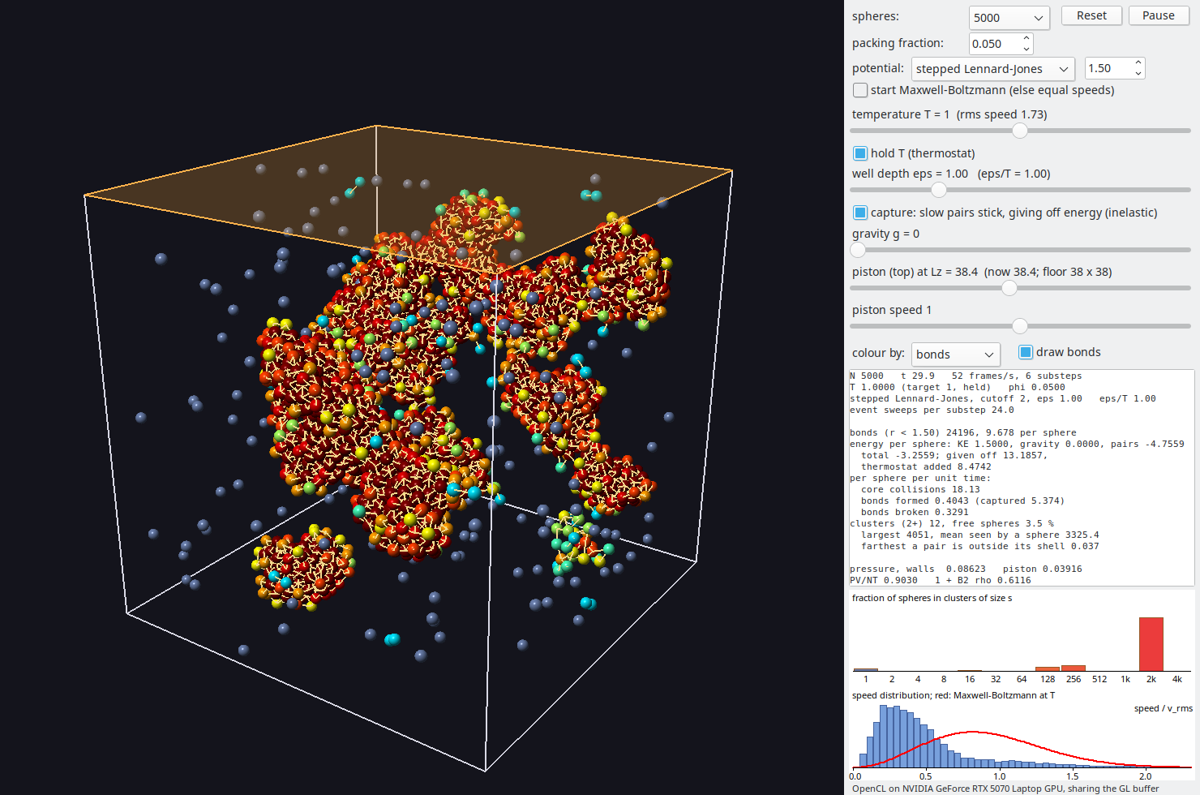
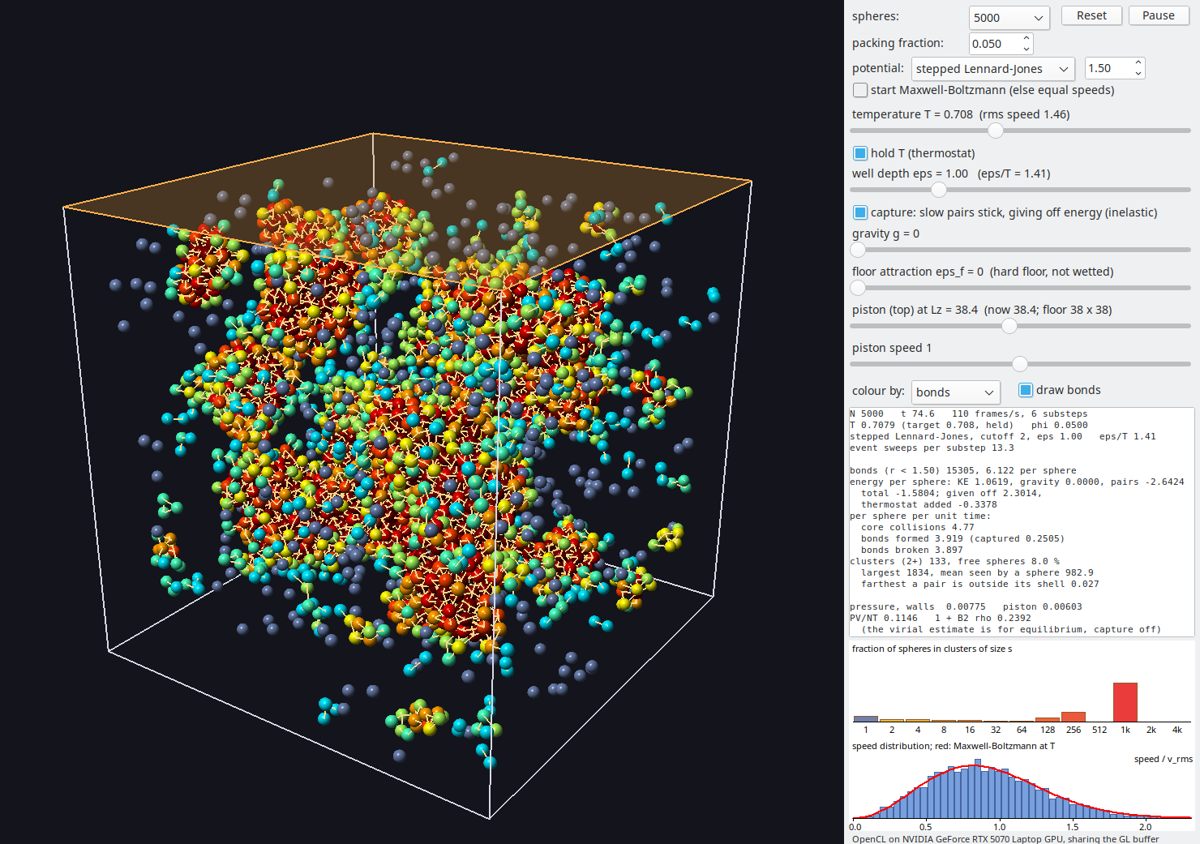
Sticky: capture only for gas pairs, attractive floor so the liquid wets it
Capture applied inside clusters too, where bound pairs rattling across
the narrow shells were captured ~8 times per sphere per unit time; the
uniformly rescaling thermostat put the energy back into the vapour, so
the liquid froze (T 0.05 against 39 in the vapour). Capture now needs
one sphere of the pair to be free: condensation from the gas. The
liquid stays at the set temperature and flows.

The floor gains a one-body square well (eps_f, slider, --floor,
default 1.5) for centres within a diameter of it, handled in the move
kernel and energy-conserving. From about 1.5 the liquid wets the floor
and spreads into a film instead of lying as a puddle.

Default T is now 0.71 (T 1 is near critical for the 2 sigma cutoff).
The window is taller for the new slider; README and screenshots
updated, stickycheck gains a floor energy case.

diff --git a/Sticky/README.md b/Sticky/README.md
@@ -6,13 +6,17 @@ again. The simulation runs on the GPU in
 OpenCL and is drawn in OpenGL from the same buffer. It is a sibling of
 HardSpheres, the folder above, and shares its `clgl.pas`.
 
-![A Lennard-Jones liquid pool on the floor under its vapour](../docs/sticky-pool.png)
+![A Lennard-Jones liquid wetting the floor under its vapour](../docs/sticky-pool.png)
 
-*5,000 spheres, stepped Lennard-Jones, T = 0.8, gravity 0.05, capture off, after 125 time units: a liquid pool on the floor under a thin vapour. Colour shows bonds per sphere (grey-blue free, green to red more bonds); bonds are drawn as lines. Speeds follow Maxwell–Boltzmann, and the clusters histogram shows one cluster holding almost every sphere.*
+*The default settings (5,000 spheres, stepped Lennard-Jones, T = 0.71, gravity 0.05, floor attraction 1.5, capture on) after 150 time units: the liquid has wet the floor (tinted blue) and covers it, about five layers deep, under a thin vapour. Colour shows bonds per sphere (grey-blue free, green to red more bonds); bonds are drawn as lines. Speeds follow Maxwell–Boltzmann, and the clusters histogram shows one cluster holding almost every sphere.*
 
-![Droplets forming in zero gravity with capture on](../docs/sticky-droplets.png)
+![A thinner liquid film at packing fraction 0.02](../docs/sticky-film.png)
 
-*The same spheres at T = 1 with no gravity and capture on, after 30 time units: slow pairs stick and give off energy, so droplets nucleate and grow. With capture on the speeds are not Maxwellian: most spheres are slow, with a long fast tail.*
+*The same at packing fraction 0.02: the box is larger and the film about two layers thick.*
+
+![Droplets forming in zero gravity](../docs/sticky-droplets.png)
+
+*With no gravity and a hard floor, after 75 time units: droplets nucleate, grow and merge, with Maxwell–Boltzmann speeds.*
 
 ## Build and run
 
@@ -27,7 +31,7 @@ fpc -O2 -Fu.. -FUlib stickycheck.lpr
 
 GUI options:
 
-- **Setup:** `--n`, `--phi`, `--lambda=<w>` (square well of width w, else stepped LJ), `--eps`, `--g`, `--temp`, `--maxwell`.
+- **Setup:** `--n`, `--phi`, `--lambda=<w>` (square well of width w, else stepped LJ), `--eps`, `--g`, `--floor=<eps_f>` (the floor's attraction, default 1.5; 0 for a hard floor), `--temp`, `--maxwell`.
 - **Behaviour:** `--nocapture`, `--nohold`.
 - **Snapshot:** `--snapshot=<file.png>` with `--frames=<n>` saves the view and the window, prints the readouts and exits.
 
@@ -62,7 +66,7 @@ potential energy.
 | event | what happens |
 |---|---|
 | core (r = 1) | elastic bounce |
-| a step inward (including reaching the cutoff) | **Capture on**, the step downhill and u_n²/4 < ε: the pair steps in without speeding up and the step's energy is given off (inelastic). Otherwise, if u_n²/4 > ΔU, it steps in and u_n²/4 changes by −ΔU; if not, it bounces back |
+| a step inward (including reaching the cutoff) | **Capture on**, one of the pair free (no bonds), the step downhill and u_n²/4 < ε: the pair steps in without speeding up and the step's energy is given off (inelastic). Otherwise, if u_n²/4 > ΔU, it steps in and u_n²/4 changes by −ΔU; if not, it bounces back |
 | a step outward | if u_n²/4 > ΔU it steps out (beyond the cutoff, the pair leaves the lists); otherwise it bounces back |
 
 **Capture on** is the "slow pairs stick" rule. A pair that falls in slowly
@@ -70,6 +74,22 @@ gives off each step's energy on the way down and ends up deep in the
 well. It can only climb out again with energy from collisions. Every
 capture cools the gas, and "hold T" (the thermostat) puts the energy
 back.
+
+Capture stands in for the third body that would carry a gas pair's
+energy away, so it applies only when one of the pair is free (has no
+bonds): condensation from the gas. Inside a cluster the neighbours carry
+energy away by ordinary collisions. At first capture applied everywhere,
+and the liquid, its bound pairs rattling across the narrow shells,
+captured about 8 times per sphere per unit time. The thermostat rescales
+every velocity alike, so it put that energy back mostly into the few
+vapour spheres. At T = 0.8 the liquid sat at T = 0.05 and the vapour at
+39: a frozen lump on the floor, not a liquid. With capture limited to
+gas pairs the liquid stays at the set temperature, moves (its
+mean-square displacement over t = 10 is 4.4, as with capture off) and
+settles into a puddle. A heat bath that redraws random spheres'
+velocities (Andersen) was tried as well. It warms the liquid locally but
+also acts as a drag on every cluster's motion, so droplets fell at only
+about g/rate and the pool barely spread; it was dropped.
 
 **Capture off** is the energy-conserving fluid: KE + PE_gravity + PE_pairs
 is constant. A pair that falls into the well speeds up and leaves again,
@@ -83,6 +103,31 @@ exactly over a substep. Gravity accelerates both spheres of a pair
 equally, so their relative motion is still a straight line and the pair
 events need no change. A dilute gas has a barometric profile with scale
 height T/g, which the slider label shows.
+
+**The floor's attraction** ε_f (slider, 0 to 4, default 1.5) is a
+one-body square well over the floor: a sphere whose centre is within one
+diameter of touching the floor (0.5 ≤ z < 1.5) has energy −ε_f. Crossing
+z = 1.5 downwards it gains ε_f of kinetic energy along z; crossing
+upwards it loses it, or bounces back if it hasn't enough. The move step
+handles it like the walls, so it conserves energy too. On a hard floor
+(ε_f = 0) the liquid doesn't wet the floor: like water on wax, it lies
+as a puddle as deep as surface tension and gravity allow (about 8
+diameters here) and covers half the floor. An attractive floor makes it
+spread. At T 0.71 (5,000 spheres, φ 0.05, measured after t = 200):
+
+| ε_f | floor covered | liquid depth (layers) |
+|---|---|---|
+| 0 | 52 % | ~9 |
+| 0.5 | 72 % | ~8 |
+| 1.0 | 85 % | ~7 |
+| 1.5 | all | ~5 |
+| 2.5 | all | ~5, more of it in the first layer |
+
+Covered means the fraction of 2 × 2 cells of floor with a sphere in the
+first layer (the measure tops out at 90 % because the last row of cells
+lies against the walls). Once the floor is wetted, the film's thickness
+is set by the amount of liquid: 4,700 condensed spheres make five layers
+on the 38 × 38 floor, and at φ 0.02 (a 52 × 52 floor) about two.
 
 The time stepping follows HardSpheres: earliest-event mutual matching,
 with each event backed up to the moment it happened. Three things were
@@ -112,9 +157,10 @@ added:
   gave an enormous back-up time, and the position correction threw
   spheres across the box.
 
-**Speed** (RTX 5070, 10,000 spheres, condensed): about 68 frames/s with
-capture off and 32 with capture on (the clusters are colder and denser),
-against about 165 for the square well. The default is 5,000 spheres.
+**Speed** (RTX 5070, 10,000 spheres, condensed at T 0.71): about 62
+frames/s with capture off and 67 with capture on (32 before capture was
+limited to gas pairs, when the frozen clusters kept the sweeps at their
+cap), against about 165 for the square well. The default is 5,000 spheres.
 
 ## Checks (`stickycheck`, N = 20000, about 2¼ min)
 
@@ -123,11 +169,12 @@ against about 165 for the square well. The default is 5,000 spheres.
 | ε = 0, φ 0.05: PV/NT | 1.226, against Carnahan–Starling 1.227 |
 | capture off, no thermostat, φ 0.05, T from 0.6 | E/N constant to 4e-6 (square well) and 2e-5 (LJ) while 17,000–20,000 bonds form |
 | the same, LJ, in gravity g 0.05 | constant to 2e-4 relative, as the gas falls |
+| the same with the floor's attraction 1.5 | E/N range 5e-4 against 4e-4 without |
 | capture off, thermostat, φ 0.01, square well, T 2 | 0.306 neighbours per sphere against ρ Σ e^(−εU/T) (4π/3)(R_s+1³ − R_s³) = 0.313; PV/NT 0.979 against 1 + B₂ρ = 0.978 |
 | the same, LJ, T 2 | within the cutoff 0.640 (0.660), within 1.5 0.256 (0.263); PV/NT 0.992 (0.990) |
 | the same, LJ, T 1.2 | 0.727 (0.746), 0.323 (0.329); PV/NT 0.948 (0.947) |
 | ε = 0, 2000 spheres, φ 0.002, g 0.03 / 0.1 | mean height 26.0 / 10.29, against 25.67 / 10.29 from hydrostatic equilibrium with the Carnahan–Starling pressure (ideal barometric 25.45 / 9.97) |
-| capture on, LJ, T 0.6–2 | no listed pair more than 0.084 outside its shell |
+| capture on, LJ, T 0.6–2 | no listed pair more than 0.051 outside its shell; at φ 0.05 and no gravity, T 2 and 1 stay a gas of small clusters, T 0.6 condenses |
 
 The neighbour counts run 2–3 % low because spheres near the walls have
 fewer neighbours. In the GUI the books balance:
@@ -139,13 +186,18 @@ is outside its shell, flagged if events are being missed.
 
 ## What it shows
 
-- **Capture on, hold T:** gas, then pairs and chains, then branched
-  clusters that coarsen and fall to the floor. Breaking keeps up with
-  bonding only partly, and almost everything ends up in one cluster.
-- **Capture off, T about 0.6–0.9, gravity on:** droplets rain onto the
-  floor and spread into a liquid pool under a thin vapour, with
-  Maxwell–Boltzmann speeds. With g = 0 they instead grow and merge into
-  one drop. Heat it and the liquid evaporates.
+- **T about 0.6–0.85, gravity on (default 0.71):** droplets rain onto
+  the floor and spread into a liquid film (on a hard floor, a puddle)
+  under a thin vapour, with
+  Maxwell–Boltzmann speeds, capture on or off. Capture speeds up the
+  early condensation. With g = 0 the droplets grow and merge into one
+  drop. Heat it and the liquid evaporates.
+- **T about 1:** close to the critical point of this short-ranged
+  (2σ cutoff) potential: a diffuse dense layer on the floor, not a
+  distinct liquid.
+- **Floor attraction:** from ε_f about 1.5 the liquid wets the floor and
+  spreads into a film over all of it; at 0 it lies as a puddle (see
+  above).
 - **Piston:** the top face of the box. Only the height changes with the
   volume; the floor and side walls stay put, so lowering the lid squeezes
   the vapour down onto the pool. Compressing drives condensation;

diff --git a/README.md b/README.md
@@ -8,7 +8,7 @@ An ideal gas, and at higher density a non-ideal one, simulated as hard spheres i
 
 The sticky version in [`Sticky/`](Sticky/) adds attraction, binding and gravity:
 
-![StickySpheres: a Lennard-Jones liquid pool on the floor under its vapour](docs/sticky-pool.png)
+![StickySpheres: a Lennard-Jones liquid wetting the floor under its vapour](docs/sticky-pool.png)
 
 ## Build and run
 
